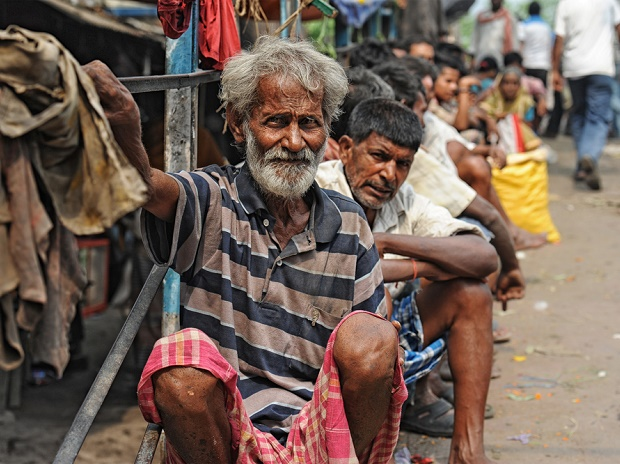
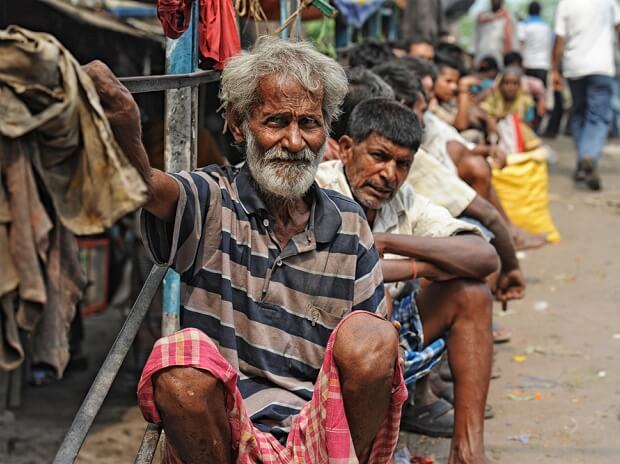
reverted webp, added compressed png. safari :|

diff --git a/src/pages/Main/Home.js b/src/pages/Main/Home.js
@@ -13,10 +13,10 @@ import { ArrowRightOutlined } from "@ant-design/icons";
 import { connector } from "@store/homeContent";
 import axios from "axios";
 
-import background from "@images/background.webp";
-import StateLogo from "@images/state-logo.webp";
-import cmIMG from "@images/cm-img.webp";
-import carousel3 from "@images/carousel-3.webp";
+import background from "@images/background.png";
+import StateLogo from "@images/state-logo.png";
+import cmIMG from "@images/cm-img.png";
+import carousel3 from "@images/carousel-3.jpg";
 
 const HomePage = (props) => {
   const [showModal, setShowModal] = useState(false);
@@ -67,6 +67,7 @@ const HomePage = (props) => {
   return (
     <Row
       style={{
+        backgroundColor: "#333",
         backgroundImage: "url(" + background + ")",
         backgroundSize: "cover",
         backgroundRepeat: "no-repeat",
@@ -81,7 +82,11 @@ const HomePage = (props) => {
           <Col span={24} className="layout-header">
             <Row>
               <Col lg={6} md={6} sm={8} xs={8} style={{ textAlign: "center" }}>
-                <img src={StateLogo} className="state-logo" />
+                <img
+                  src={StateLogo}
+                  className="state-logo"
+                  alt="Karnataka Gov"
+                />
                 <br />
                 <span className="header-text">#karnatakafightscorona</span>
               </Col>

diff --git a/src/components/Utils/index.js b/src/components/Utils/index.js
@@ -3,7 +3,16 @@ import React from "react";
 export function Spacer({
   width = 10,
   height = "auto",
-  display = "inline-block"
+  display = "inline-block",
 }) {
   return <div style={{ width: width, display: display, height: height }}></div>;
+}
+
+export function Image({ webp, fallback, text, extra = {} }) {
+  return (
+    <picture>
+      <source srcSet={webp} type="image/webp" />
+      <img className="state-logo" src={fallback} alt={text} {...extra} />
+    </picture>
+  );
 }
